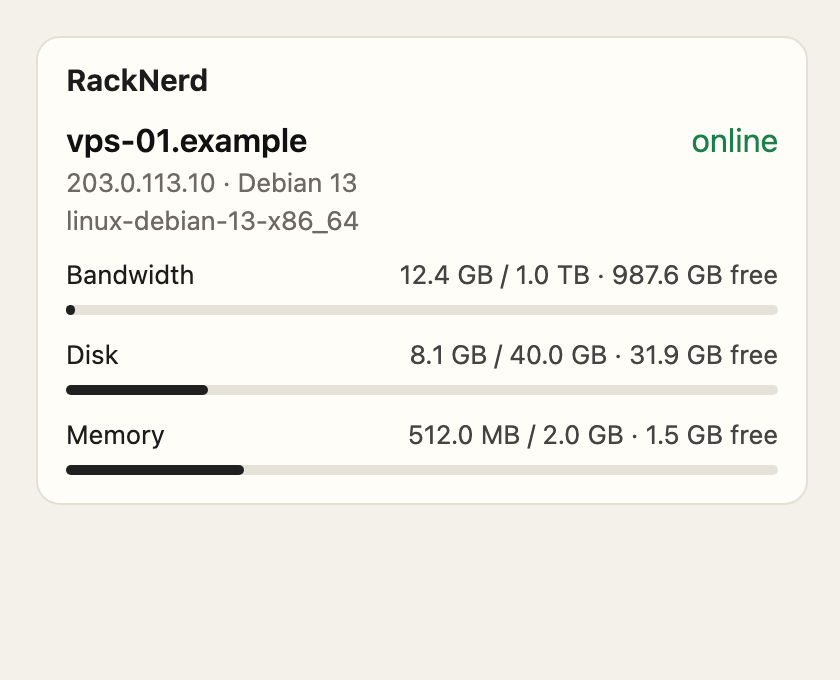
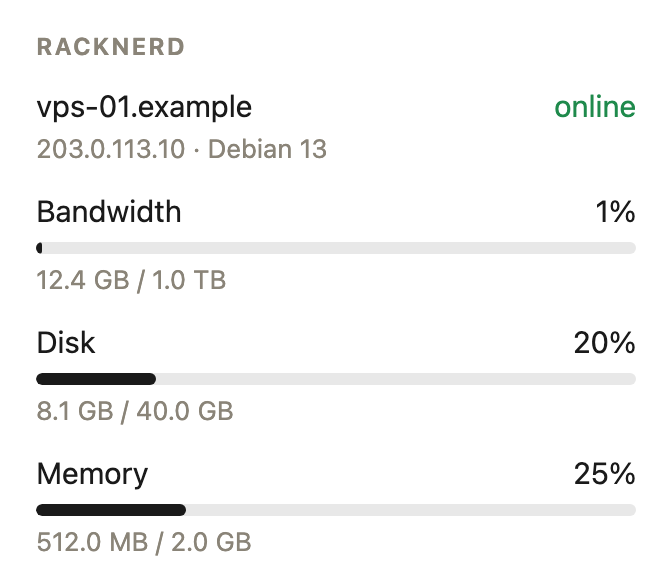
Stack RackNerd usage on separate rows
Keep the percent beside each label and the used/total line under the bar, so long counters fit a narrow column.

diff --git a/widgets/racknerd/README.md b/widgets/racknerd/README.md
@@ -2,7 +2,7 @@
 
 ![RackNerd VPS status with sample usage](preview.png)
 
-Show one RackNerd VPS: hostname, power state, addresses, operating system, template, and bandwidth, disk, and memory usage. Glance calls the per-server client API directly. The preview uses a fictional server.
+Show one RackNerd VPS: hostname, power state, addresses, operating system, and bandwidth, disk, and memory usage. Glance calls the per-server client API directly. The preview uses a fictional server.
 
 The widget requests `info` only. It does not boot, reboot, or shut down the VPS.
 
@@ -20,7 +20,7 @@ For another VPS, add a second copy of the widget and point it at a different pai
 
 ## What the numbers cover
 
-One request asks for status, addresses, bandwidth, disk, and memory. Bandwidth, disk, and memory arrive as byte counters. The text shows those counters in decimal units (powers of 1,000), with one decimal place. The bar uses the percent returned by the API. A rejected key is shown as “API authentication failed.” The same key can also power the VPS on or off from the RackNerd panel; this widget never sends those actions.
+One request asks for status, addresses, bandwidth, disk, and memory. Each meter puts the API percent beside the label, draws a full-width bar, and shows used / total underneath. Those byte counters use decimal units (powers of 1,000), with one decimal place. The image template name stays on the address line as a tooltip. A rejected key is shown as “API authentication failed.” The same key can also power the VPS on or off from the RackNerd panel; this widget never sends those actions.
 
 The card caches results for five minutes.
 
@@ -57,11 +57,16 @@ Tested with Glance v0.8.8. Copy the YAML below or download [widget.yml](widget.y
       {{- if $raw -}}
         {{- $used := findSubmatch "^[^,]+,([0-9]+)" $raw -}}
         {{- $total := findSubmatch "^([0-9]+)" $raw -}}
-        {{- $free := findSubmatch "^[^,]+,[^,]+,([0-9]+)" $raw -}}
         {{- $pct := findSubmatch "^[0-9.]+" (findSubmatch "^[^,]+,[^,]+,[^,]+,([^,]+)" $raw) -}}
-        <div class="flex justify-between size-h6 margin-top-10"><span>{{ $label }}</span><span>{{ template "rnSize" $used }} / {{ template "rnSize" $total }} · {{ template "rnSize" $free }} free</span></div>
-        <div style="height: 5px; margin-top: 8px; border-radius: 5px; background: var(--color-separator);">
-          <div style="height: 100%; width: {{ $pct }}%; max-width: 100%; border-radius: 5px; background: var(--color-primary);"></div>
+        <div class="margin-top-15">
+          <div class="flex justify-between gap-10">
+            <span>{{ $label }}</span>
+            <span class="color-highlight" style="white-space: nowrap;">{{ $pct }}%</span>
+          </div>
+          <div style="height: 6px; margin-top: 7px; border-radius: 99px; background: rgba(128, 128, 128, 0.18); overflow: hidden;">
+            <div style="height: 100%; width: {{ $pct }}%; max-width: 100%; border-radius: inherit; background: var(--color-primary);"></div>
+          </div>
+          <div class="size-h6 color-subdue margin-top-5">{{ template "rnSize" $used }} / {{ template "rnSize" $total }}</div>
         </div>
       {{- end -}}
     {{ end }}
@@ -91,7 +96,7 @@ Tested with Glance v0.8.8. Copy the YAML below or download [widget.yml](widget.y
         {{ $ip := $res.JSON.String "ipaddress" }}
         {{ $ips := $res.JSON.String "ipaddr" }}
         <div class="flex justify-between gap-10">
-          <a class="color-highlight" style="overflow-wrap: anywhere;" href="https://ctrl.racknerd.com/">{{ $res.JSON.String "hostname" }}</a>
+          <a class="color-highlight text-truncate" href="https://ctrl.racknerd.com/">{{ $res.JSON.String "hostname" }}</a>
           {{ if eq $status "online" }}
             <span class="color-positive" style="white-space: nowrap;">online</span>
           {{ else if or (eq $status "offline") (eq $status "disabled") }}
@@ -101,13 +106,10 @@ Tested with Glance v0.8.8. Copy the YAML below or download [widget.yml](widget.y
           {{ end }}
         </div>
         {{ if or $ip ($res.JSON.String "os") }}
-          <div class="size-h6 color-subdue margin-top-5">{{ $ip }}{{ if and $ip ($res.JSON.String "os") }} · {{ end }}{{ $res.JSON.String "os" }}</div>
-        {{ end }}
-        {{ if $res.JSON.String "template" }}
-          <div class="size-h6 color-subdue">{{ $res.JSON.String "template" }}</div>
+          <div class="size-h6 color-subdue margin-top-5" title="{{ $res.JSON.String "template" }}">{{ $ip }}{{ if and $ip ($res.JSON.String "os") }} · {{ end }}{{ $res.JSON.String "os" }}</div>
         {{ end }}
         {{ if and $ips (ne $ips $ip) }}
-          <div class="size-h6 color-subdue">Other IPs {{ $ips }}</div>
+          <div class="size-h6 color-subdue">{{ $ips }}</div>
         {{ end }}
         {{ template "rnUsage" (printf "Bandwidth:%s" ($res.JSON.String "bw")) }}
         {{ template "rnUsage" (printf "Disk:%s" ($res.JSON.String "hdd")) }}
